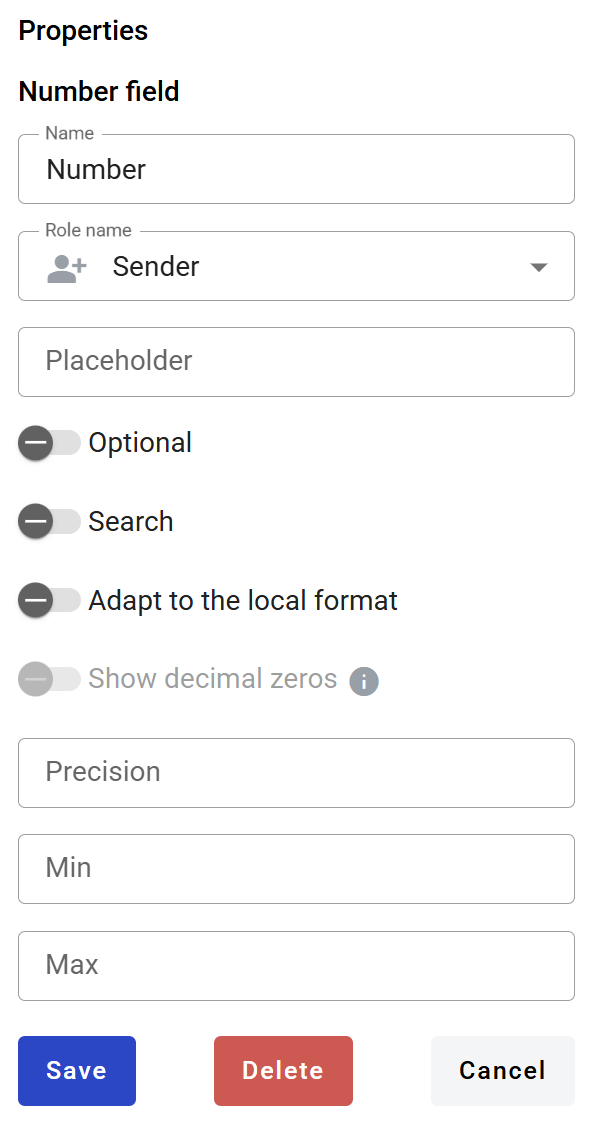
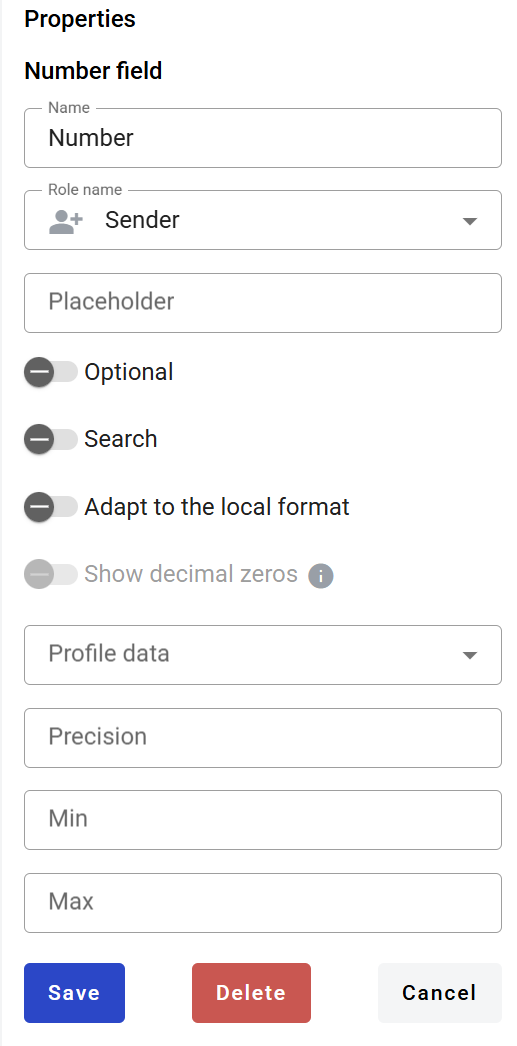
upd

diff --git a/docs/source/pages/howToWorkWithPlatform/mainApplication/templateList/templateManagement/documentManagementOnTemplate/fields/number/number.rst b/docs/source/pages/howToWorkWithPlatform/mainApplication/templateList/templateManagement/documentManagementOnTemplate/fields/number/number.rst
@@ -31,12 +31,16 @@ How to add a number field to the document?
 .. note:: Numbers in envelope view will be formatted according to standard of a region which is selected on User profile page. You can see formatting example under region selector on that page. Numbers in printable versions of the documents will always be formatted according to platform region standard.
 
 9. Show decimal zeroes (becomes editable if precision is set) - if enabled, zeroes will be added to fill all empty decimal places of field value
-10. Precision - number of decimal places allowed in field (no limit is applied if left empty)
+10. Profile data - this attribute specifies if this field should be filled with user profile data. If you will select any available option in this field, the according user profile data will be automatically filled in this field when the envelope is opened by the user (but it will still be possible to edit it with any allowed custom value)
+
+.. hint:: Please note that if Profile data is selected - Min and Max attributes will be applied to this field automatically according to the selected Profile data value regardless of your input (overwritten) after the template is saved.
+
+11. Precision - number of decimal places allowed in field (no limit is applied if left empty)
 
 .. note:: If value inside the field has more decimal places then allowed by precision attribute, all extra places will be trimmed. No rounding will be applied. E.g. if original value is 1.99 it will be changed to 1.9 if precision is set to 1 and will be changed to 1 if precision is set to 0.
 
-11. Min - minimal value allowed in field (no limit is applied if left empty)
-12. Max - maximal value allowed in field (no limit is applied if left empty)
+12. Min - minimal value allowed in field (no limit is applied if left empty)
+13. Max - maximal value allowed in field (no limit is applied if left empty)
 
 .. warning:: Maximum allowed character count for number field is 15 (according to `IEEE 754 <https://en.wikipedia.org/wiki/IEEE_754>`_). Please note this includes decimal places. This means that if your field has precision attribute set to 3 and you insert a value 999999999999999 or more characters, it will be converted to 999999999999.000.
 

diff --git a/docs/source/pages/howToWorkWithPlatform/mainApplication/templateList/templateManagement/documentManagementOnTemplate/fields/date/date.rst b/docs/source/pages/howToWorkWithPlatform/mainApplication/templateList/templateManagement/documentManagementOnTemplate/fields/date/date.rst
@@ -27,8 +27,12 @@ How to add a date field to the document?
 6. Optional - this attribute specifies if this field is mandatory to fill
 7. Time - this attribute specifies if time selector will be added to calendar
 8. Search - this attribute specifies if this field should be eligible for mailbox page search
-9. Min - minimal timestamp accepted by field (no limit is applied if left empty)
-10. Max - maximal timestamp accepted by field (no limit is applied if left empty)
+9. Profile data - this attribute specifies if this field should be filled with user profile data. If you will select any available option in this field, the according user profile data will be automatically filled in this field when the envelope is opened by the user (but it will still be possible to edit it with any allowed custom value)
+
+.. hint:: Please note that if Profile data is selected - Min and Max attributes will be applied to this field automatically according to the selected Profile data value regardless of your input (overwritten) after the template is saved.
+
+10. Min - minimal timestamp accepted by field (no limit is applied if left empty)
+11. Max - maximal timestamp accepted by field (no limit is applied if left empty)
 
 .. note:: Min and max fields only accept integers. They specify boundary dates offset in days. E.g. if min is 0 and max is 1, date interval from today to tomorrow will be available. If min is -1 and max is 0 then range from yesterday to today will be available. If min and max are both same, then only specified day will be available.
 

diff --git a/docs/source/pages/howToWorkWithPlatform/mainApplication/templateList/templateManagement/documentManagementOnTemplate/fields/text/text.rst b/docs/source/pages/howToWorkWithPlatform/mainApplication/templateList/templateManagement/documentManagementOnTemplate/fields/text/text.rst
@@ -42,7 +42,7 @@ How to add a text field to the document?
 
 10. Profile data - this attribute specifies if this field should be filled with user profile data. If you will select any available option in this field, the according user profile data will be automatically filled in this field when the envelope is opened by the user (but it will still be possible to edit it with any allowed custom value)
 
-.. hint:: Please note that if Profile data is selected - Pattern, Min and Max attributes will be applied to this field automatically according to the selected Profile data value regardless of your input (overwritten) after the template is saved.
+.. hint:: Please note that if Profile data is selected - Pattern, Min, and Max attributes will be applied to this field automatically according to the selected Profile data value regardless of your input (overwritten) after the template is saved.
 
 11. Min - minimum number of characters required for field (no limit is applied if left empty)
 12. Max - maximum number of characters required for field (standart limit is applied if left empty)
